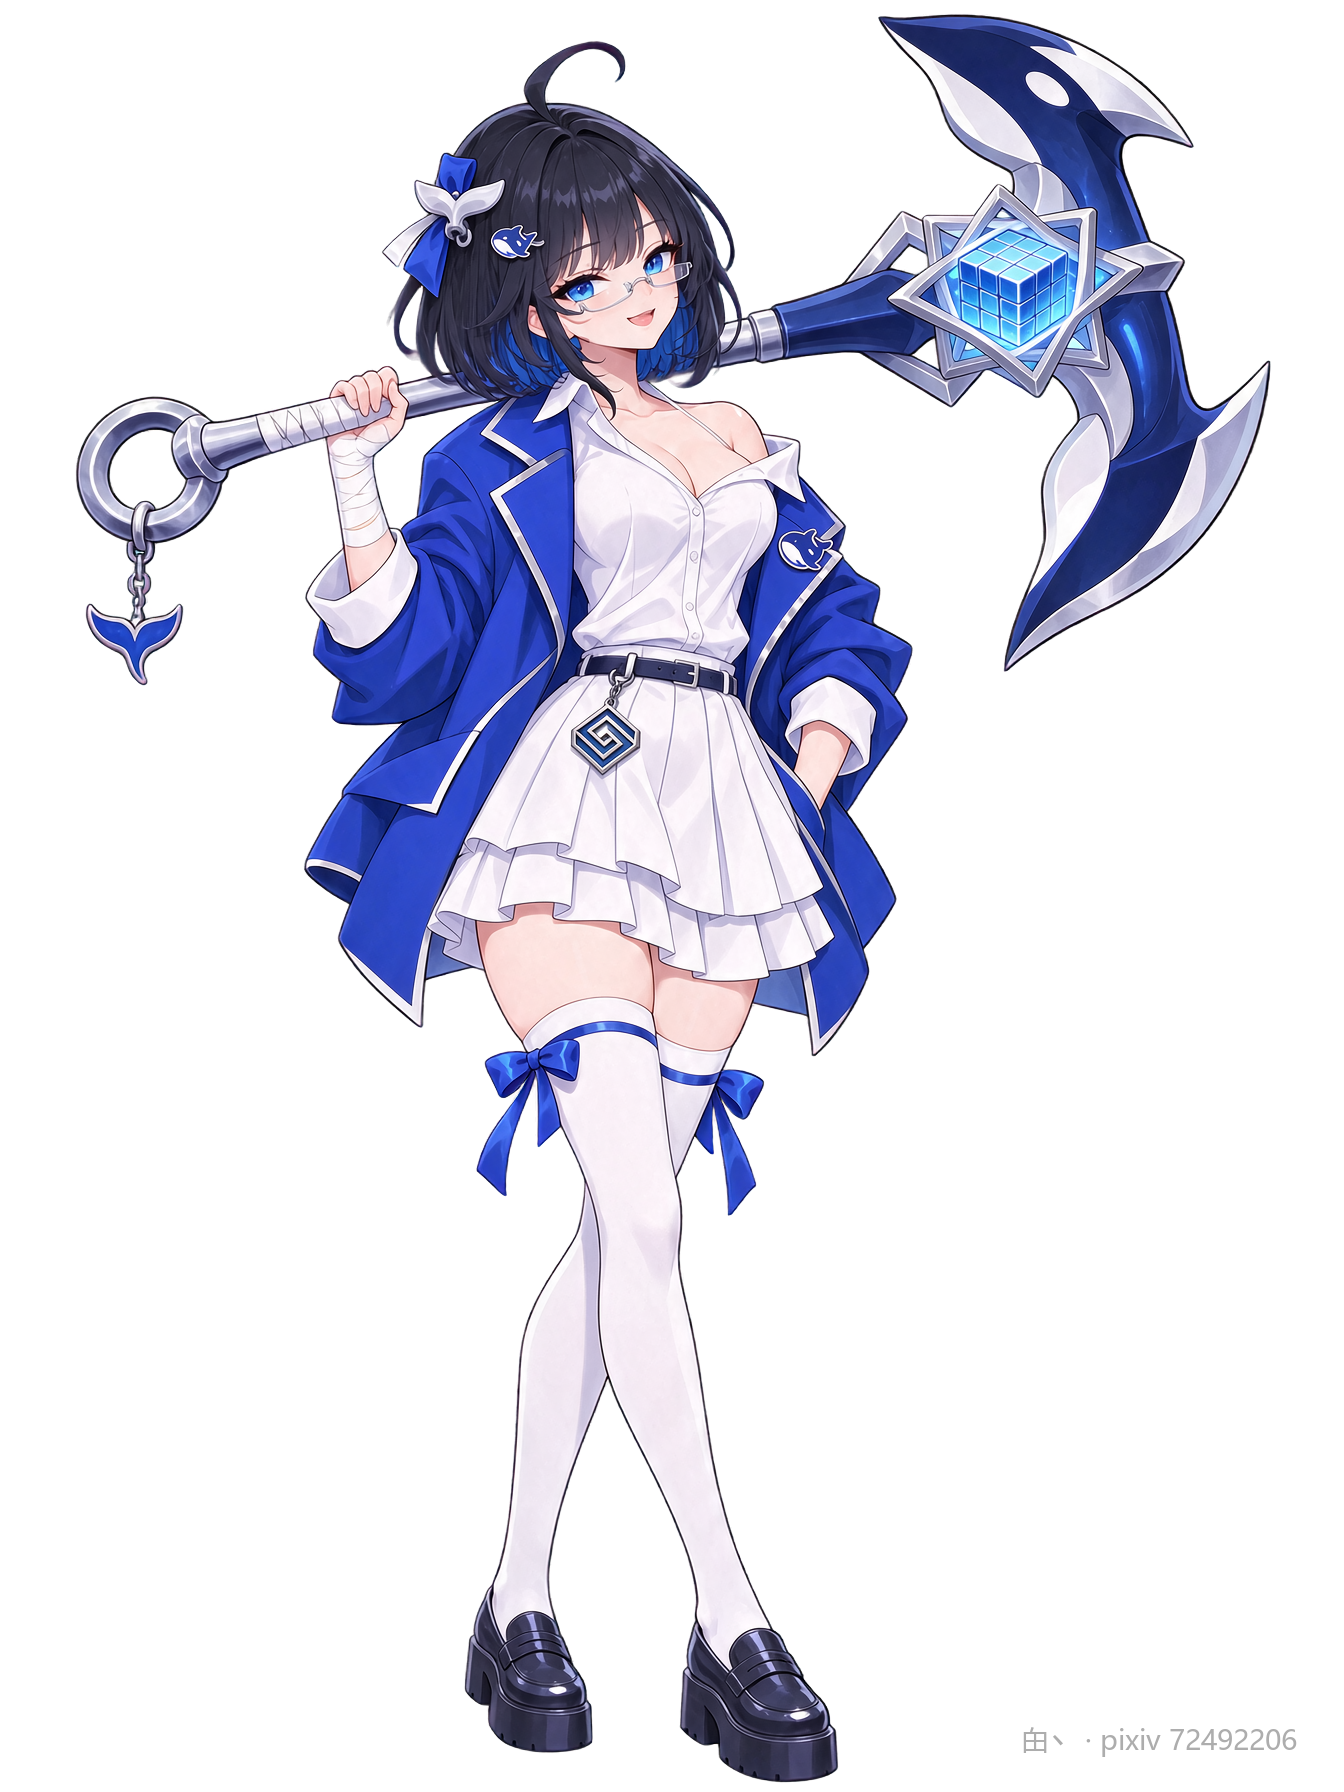
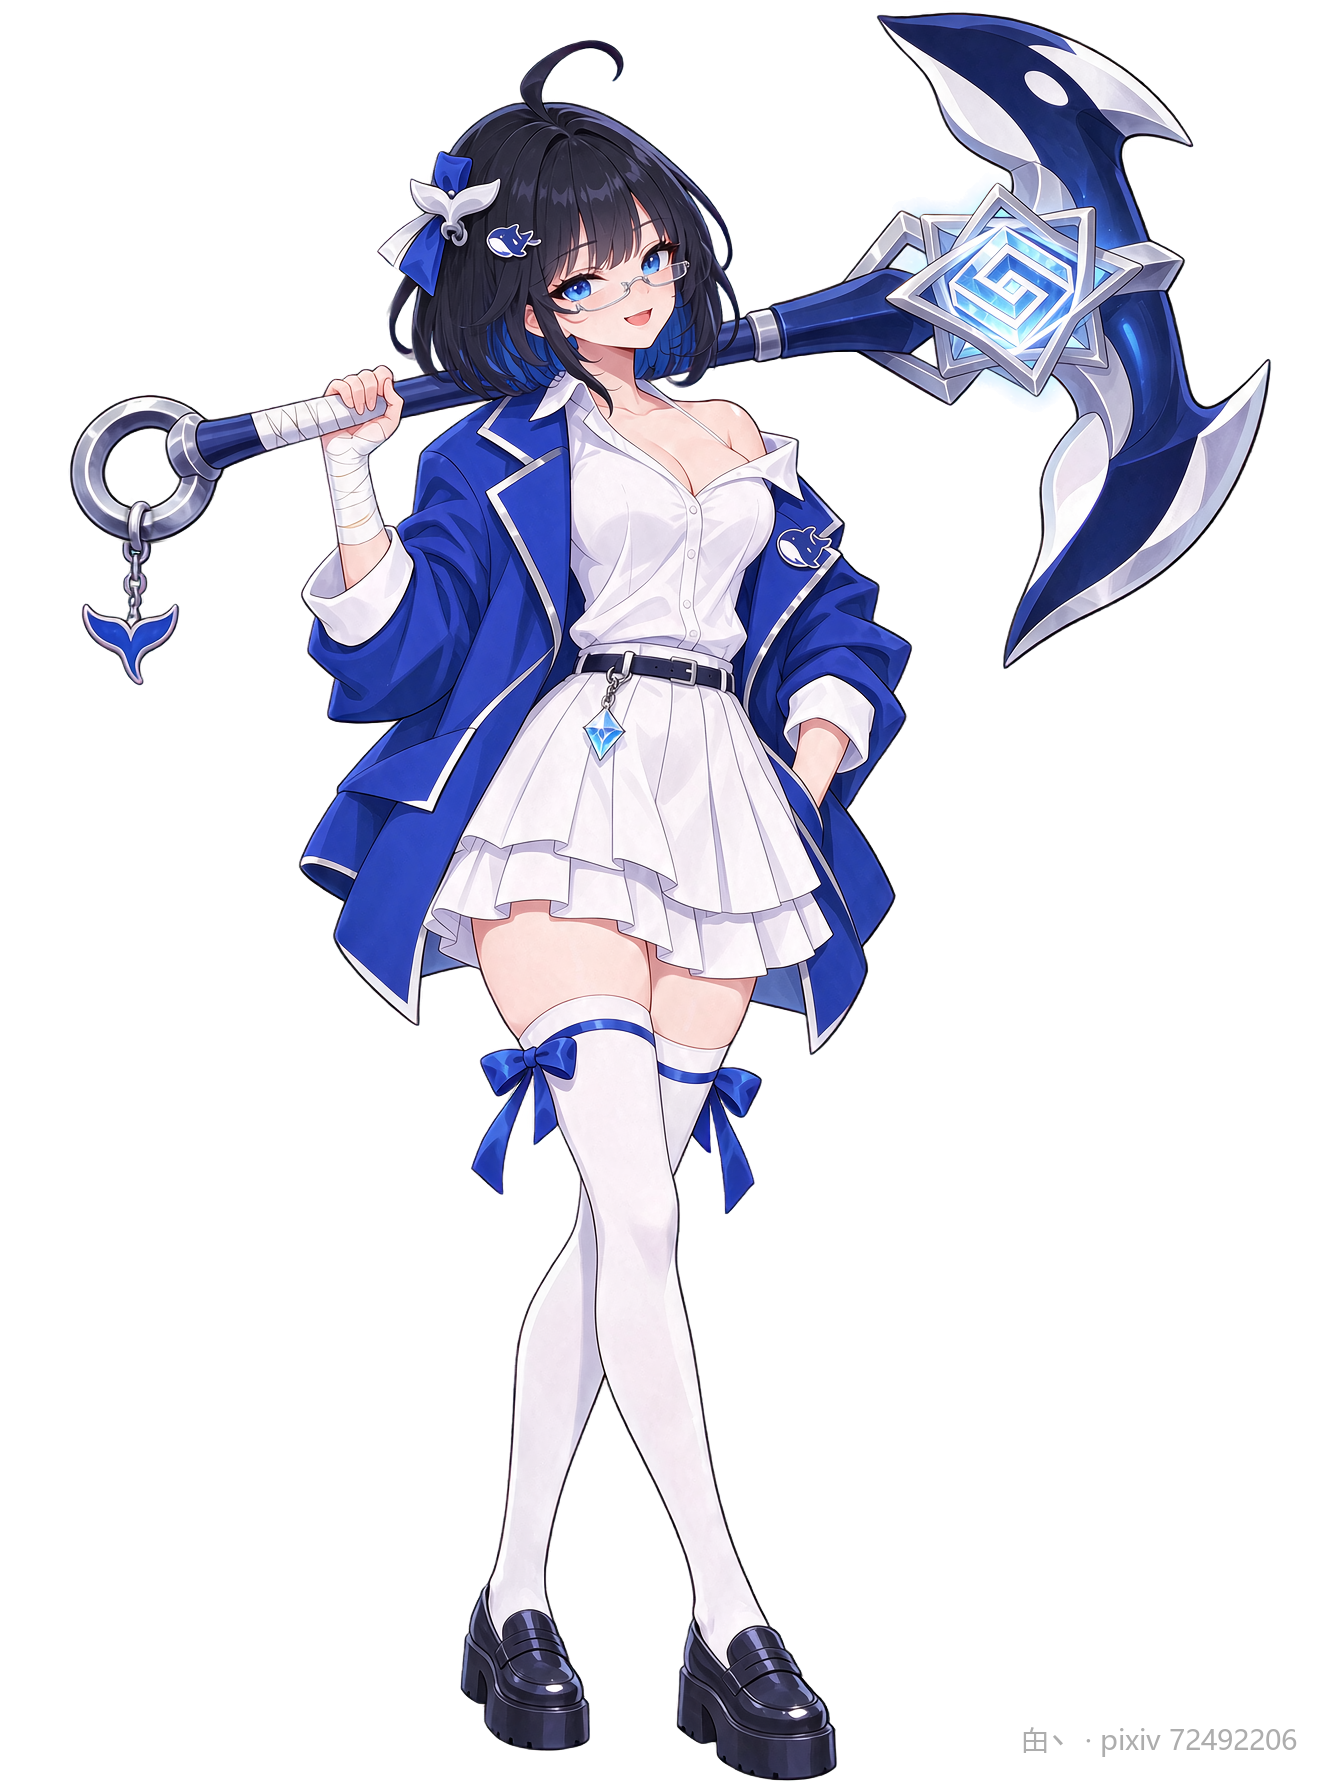
v1.10.3：统一升级整活区梁文锋娘 3 张角色锚点（大/中/Q版）为锚心幻方回纹核专武

diff --git a/整活区/liangwenfeng/设定与免责声明.md b/整活区/liangwenfeng/设定与免责声明.md
@@ -9,14 +9,14 @@
 
 ---
 
-## 设计要点（极简高明度蓝白 × 蓝色虎鲸 × 幻方回纹 × 悬浮魔方）
+## 设计要点（极简高明度蓝白 × 蓝色虎鲸 × 幻方回纹锚心）
 
 - **色彩收敛**：高明度纯白主底 ＋ 鲜亮宝蓝（Royal Blue）大翻领外套 ＋ 少量冷银与深蓝黑靴扣压底，清爽易画、画师 5 分钟即可记住全套特征。
 - **核心识别锚**：
   - 黑短发内层冷蓝挑染 ＋ 翘呆毛 ＋ 极简小蓝虎鲸发卡；
   - 微微下滑的细银丝半框眼镜 ＋ 自信从容的反派大佬淡笑；
-  - 亮宝蓝白边西装风大衣（左翻领蓝色虎鲸圆徽章）＋ 敞领纯白衬衫 ＋ 腰间垂挂**冷银深蓝釉立体「幻方量化回纹菱形」吊坠**；
-  - 缠白色格斗绷带单手轻松扛起标志性整活专武——**八芒星悬浮 3×3 蓝晶魔方 × 蓝色虎鲸巨锚**（呼应 DeepSeek 蓝色虎鲸、幻方九宫魔方与海内外「肌肉/怪力大佬」社区梗）。
+  - 亮宝蓝白边西装风大衣（左翻领蓝色虎鲸圆徽章）＋ 敞领纯白衬衫 ＋ 腰间极简冷银镶冰蓝菱形小水晶吊坠；
+  - 缠白色格斗绷带单手轻松扛起标志性整活专武——**「幻方回纹核心 × 蓝色虎鲸巨锚」**（锚心冷银八芒镂空星框正中融合 45° 旋转立体发光冰蓝「幻方量化官方菱形回纹核心」，两侧为深宝蓝纯白眼斑流线虎鲸锚刃，锚柄尾环垂挂蓝虎鲸尾坠——一把神器合体 DeepSeek 蓝色虎鲸、幻方量化官方图形与海内外「肌肉/怪力大佬」社区梗）。
 - **双形态角色锚点**：
   - **大形态（默认主推 · 7.1 头身高定帅气御姐）**：大幅展开宝蓝燕尾长风衣 ＋ 敞领白丝衬衫 ＋ 高腰纯白修身骑士长裤 ＋ 银扣高跟骑士短靴，摆脱白幼瘦、兼顾力量感与高定质感。
   - **中形态（6.2 头身少女番外）**：滑肩宝蓝西装 ＋ 纯白双层百褶短裙 ＋ 蓝丝带过膝白袜 ＋ 蓝白鲸尾蝴蝶结发饰。
@@ -25,10 +25,10 @@
 
 ## 图集目录（共 12 张，均带右下角水印 `甶丶 · pixiv 72492206`）
 
-### 一、角色锚点（3 张，二创参考以本区为准）
+### 一、角色锚点（3 张，二创参考以本区为准，已全线统一「锚心幻方回纹核」专武设定）
 - **`01_立绘/`（2 张）**：
-  - `梁文锋娘 大.png` — 7.1 头身骑士长裤高定帅气御姐立绘（主推默认，腰挂幻方回纹菱形吊坠）
-  - `梁文锋娘 中.png` — 6.2 头身少女番外立绘（腰挂幻方回纹菱形吊坠）
+  - `梁文锋娘 大.png` — 7.1 头身骑士长裤高定帅气御姐立绘（主推默认）
+  - `梁文锋娘 中.png` — 6.2 头身少女番外立绘
 - **`02_Q版/`（1 张）**：
   - `梁文锋娘 Q版.png` — 二头身奶凶扛锚 Q 版立绘
 

diff --git a/CHANGELOG.md b/CHANGELOG.md
@@ -2,6 +2,13 @@
 
 格式：日期 · 版本 · 改了什么。物料会继续补齐，引用时建议带版本或日期。
 
+## v1.10.3 · 2026-11-25
+
+**统一升级整活区梁文锋娘全部 3 张角色锚点（大 / 中 / Q版）：巨锚中心融合官方「幻方回纹核」专武设定**
+
+- **武器终极统一**：将 `梁文锋娘 大.png`、`梁文锋娘 中.png`、`梁文锋娘 Q版.png` 三张角色锚点的巨锚中心统一升级为「冷银外棱＋发光冰蓝琉璃 45° 幻方量化官方菱形回纹核心」，与深宝蓝白眼斑虎鲸锚刃融为一体（彻底告别魔方格数易画错问题），腰坠同步收简为冷银镶冰蓝小菱形水晶避免符号重复
+- **增量替换**：仅增量重打上述 3 张角色锚点纯白底水印并更新 `_md5.txt` 与 `_清单.json` 对应 3 条记录，其余 9 张非锚点衍生图与 145 张主库图片零改动
+
 ## v1.10.2 · 2026-11-25
 
 **升级 StepFun 娘小形态为早期经典蓝白五格配色，并全套纠偏 5 方块阶梯图标与减负冗余小标（增量更新 12 张）**
